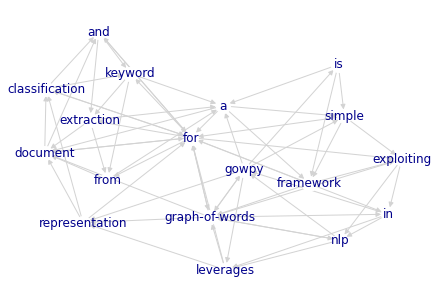
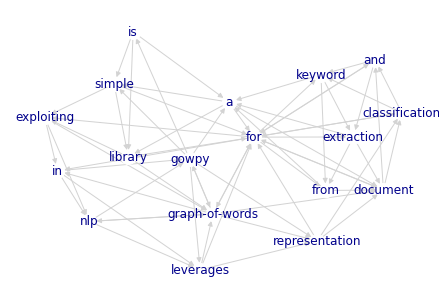
Terminology change : framework -> library

diff --git a/README.md b/README.md
@@ -1,6 +1,6 @@
 # gowpy
 
-A very simple framework for exploiting graph-of-words in NLP. 
+A very simple library for exploiting graph-of-words in NLP. 
 Currently at version **0.1.0** (alpha).
 
 gowpy leverages graph-of-words representation in order to do:
@@ -44,7 +44,7 @@ from gowpy.gow.builder import GoWBuilder
 #
 builder = GoWBuilder(directed=True, window_size=4)
 
-text = """gowpy is a simple framework for exploiting graph-of-words in nlp gowpy 
+text = """gowpy is a simple library for exploiting graph-of-words in nlp gowpy 
 leverages graph-of-words representation for document classification and for keyword extraction 
 from a document"""
 
@@ -318,11 +318,11 @@ grid_search = GridSearchCV(pipeline,
 Detailed explanations, evaluations and discussions can be found in these papers:
 - Information retrieval (TW-IDF)
    + [0] [Graph-of-word and TW-IDF: New Approach to Ad Hoc IR](https://dl.acm.org/doi/abs/10.1145/2505515.2505671).
-     *Rousseau, François, and Vazirgiannis, Michalis *.
+     *Rousseau, François, and Vazirgiannis, Michalis*.
      *Proceedings of the 22nd ACM international conference on Information & Knowledge Management*.(**CIKM 2013**)
 - Document classification with frequent subgraphs
    + [1] [Text Categorization as a Graph Classification Problem](http://www.aclweb.org/anthology/P15-1164).
-      *Rousseau, François, Kiagias, Emmanouil and Vazirgiannis, Michalis *.
+      *Rousseau, François, Kiagias, Emmanouil and Vazirgiannis, Michalis*.
       *Proceedings of the 53rd Annual Meeting of the Association for Computational Linguistics and the 7th International 
       Joint Conference on Natural Language Processing* (**ACL 2015**)
 - Keyword extraction from graph-of-words
